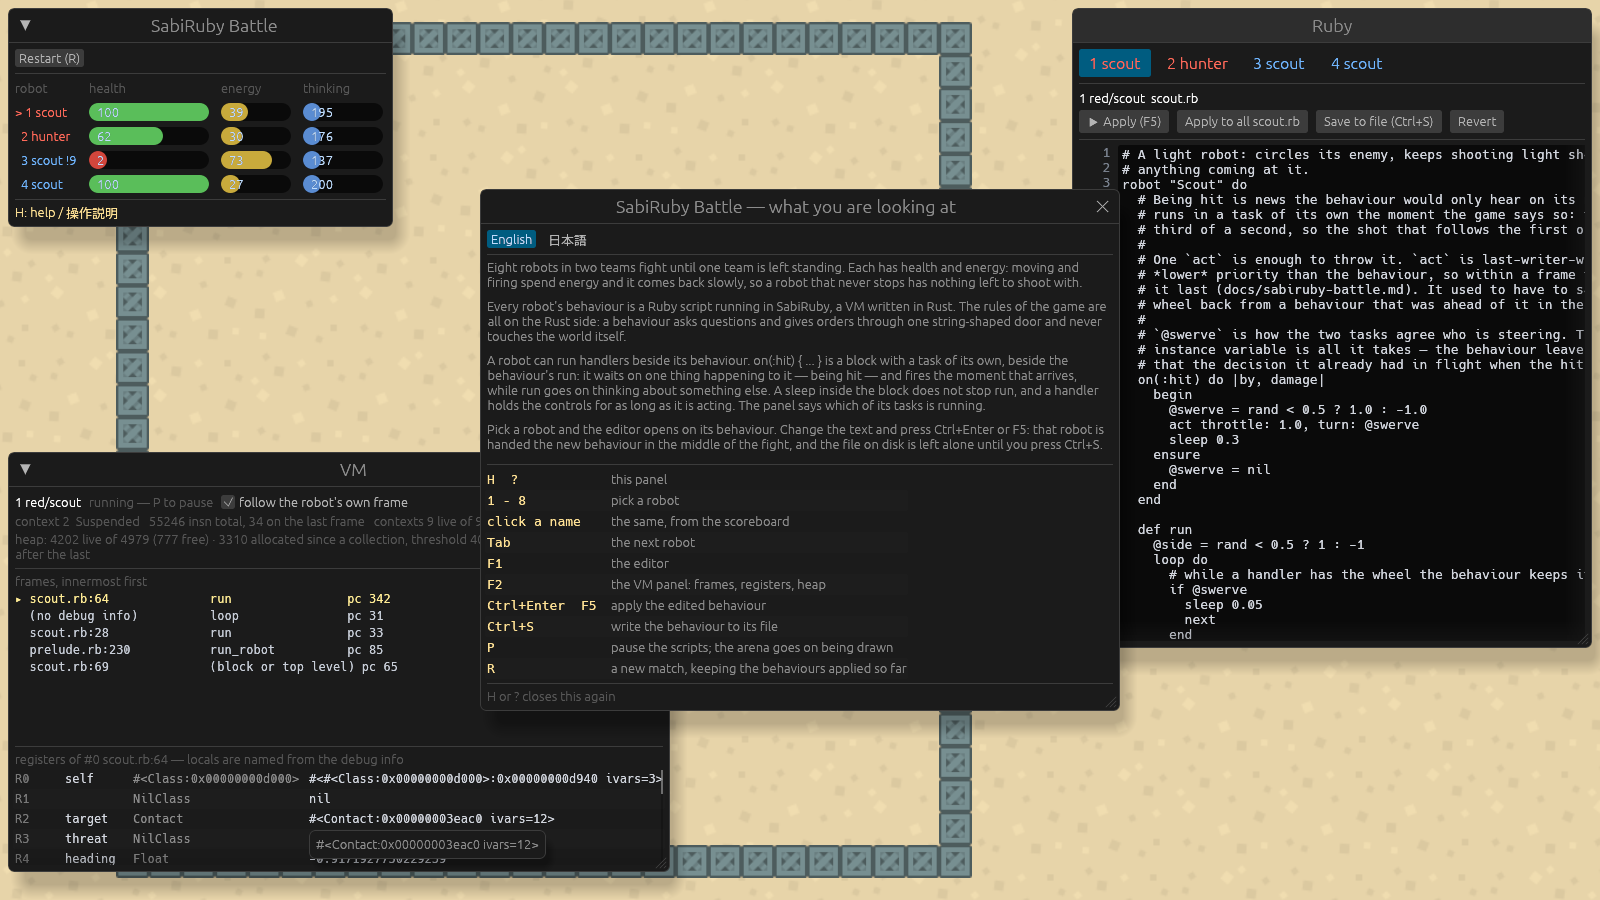
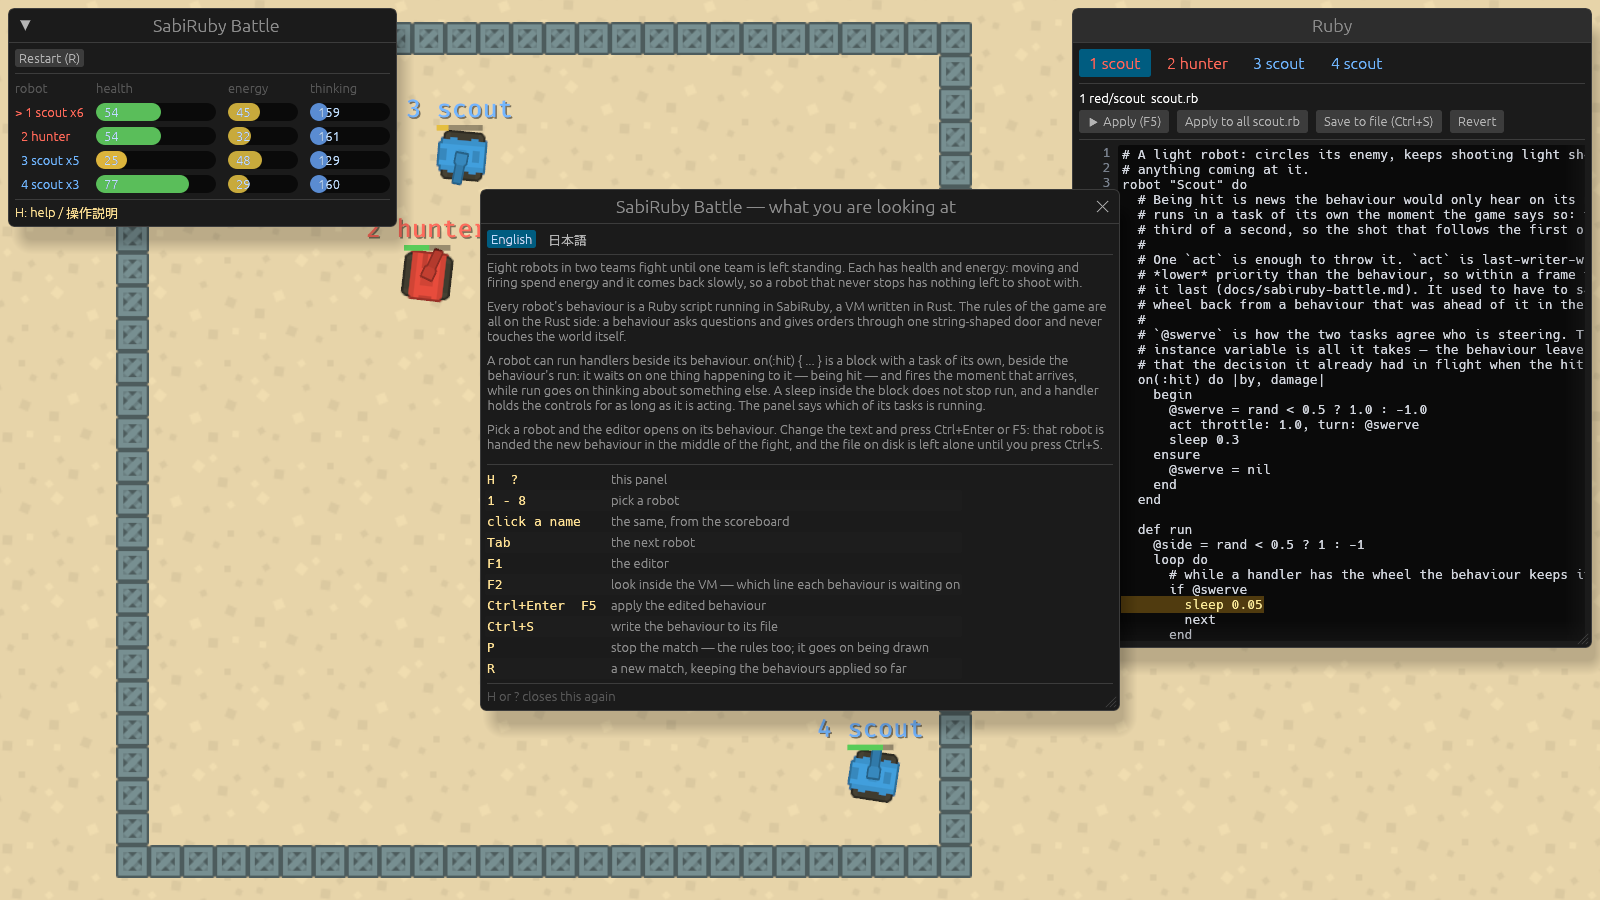
guide: F2 says what the panel is for, P says the world stops (G9)
Two rows of the `H` panel, in both games and both languages:

* `F2` was "the VM panel: frames, registers, heap" — the names of the things in
  it, which is no use to somebody deciding whether to press it. It is now "look
  inside the VM — which line each behaviour is waiting on" / 「VM の中を見る(どの
  行で何を待っているか)」, which is what the panel now answers first.
* `P` said "pause the scripts; the world goes on being drawn". It stops the
  world now, so it says so: "stop the world — the rules too; it goes on being
  drawn" / 「世界ごと一時停止(規則も止まる。描画は続く)」 (Battle: the match).

The font is re-cut (`tools/subset-font.sh`, fonttools 4.65): the new Japanese
brings exactly one character the subset did not carry — `く`, from 「続く」 —
and six are no longer used (`ジヒレ場技闘`). 330 glyphs, 64,616 bytes, against
65,904.

The four guide pictures are retaken, and the Japanese is not tofu:
`docs/garden-guide.png`, `garden-guide-ja.png`, `battle-guide.png`,
`battle-guide-ja.png`.

Claude-Session: https://claude.ai/code/session_01AVbKxkGsS9czGd67c4RtEv

diff --git a/garden/src/guide_text.rs b/garden/src/guide_text.rs
@@ -80,10 +80,10 @@ pub fn guide() -> Guide {
     .key("click", "look at a creature", "生き物を選ぶ")
     .key("Tab", "the next creature", "次の生き物")
     .key("F1", "the editor", "エディタ")
-    .key("F2", "the VM panel: frames, registers, heap", "VM パネル(フレーム・レジスタ・ヒープ)")
+    .key("F2", "look inside the VM — which line each behaviour is waiting on", "VM の中を見る(どの行で何を待っているか)")
     .key("Ctrl+Enter", "apply the edited behaviour", "編集した行動アルゴリズムを適用")
     .key("Ctrl+S", "write the behaviour to its file", "行動アルゴリズムをファイルに保存")
-    .key("P", "pause the scripts; the world goes on being drawn", "スクリプトを一時停止(世界は描かれ続ける)")
+    .key("P", "stop the world — the rules too; it goes on being drawn", "世界ごと一時停止(規則も止まる。描画は続く)")
     .key("F5  F9", "save the garden / read it back", "庭を保存 / 読み込み")
     .key("drag", "turn the camera round the garden", "視点を回す")
     .key("right-drag  Shift+drag", "slide the view over the field", "視点をスライド")

diff --git a/sabibots/src/guide_text.rs b/sabibots/src/guide_text.rs
@@ -58,10 +58,10 @@ pub fn guide() -> Guide {
     .key("click a name", "the same, from the scoreboard", "同じこと(スコアボードから)")
     .key("Tab", "the next robot", "次のロボット")
     .key("F1", "the editor", "エディタ")
-    .key("F2", "the VM panel: frames, registers, heap", "VM パネル(フレーム・レジスタ・ヒープ)")
+    .key("F2", "look inside the VM — which line each behaviour is waiting on", "VM の中を見る(どの行で何を待っているか)")
     .key("Ctrl+Enter  F5", "apply the edited behaviour", "編集した行動アルゴリズムを適用")
     .key("Ctrl+S", "write the behaviour to its file", "行動アルゴリズムをファイルに保存")
-    .key("P", "pause the scripts; the arena goes on being drawn", "スクリプトを一時停止(闘技場は描かれ続ける)")
+    .key("P", "stop the match — the rules too; it goes on being drawn", "試合ごと一時停止(規則も止まる。描画は続く)")
     .key("R", "a new match, keeping the behaviours applied so far", "適用済みの行動アルゴリズムのまま試合をやり直す")
 }
 
